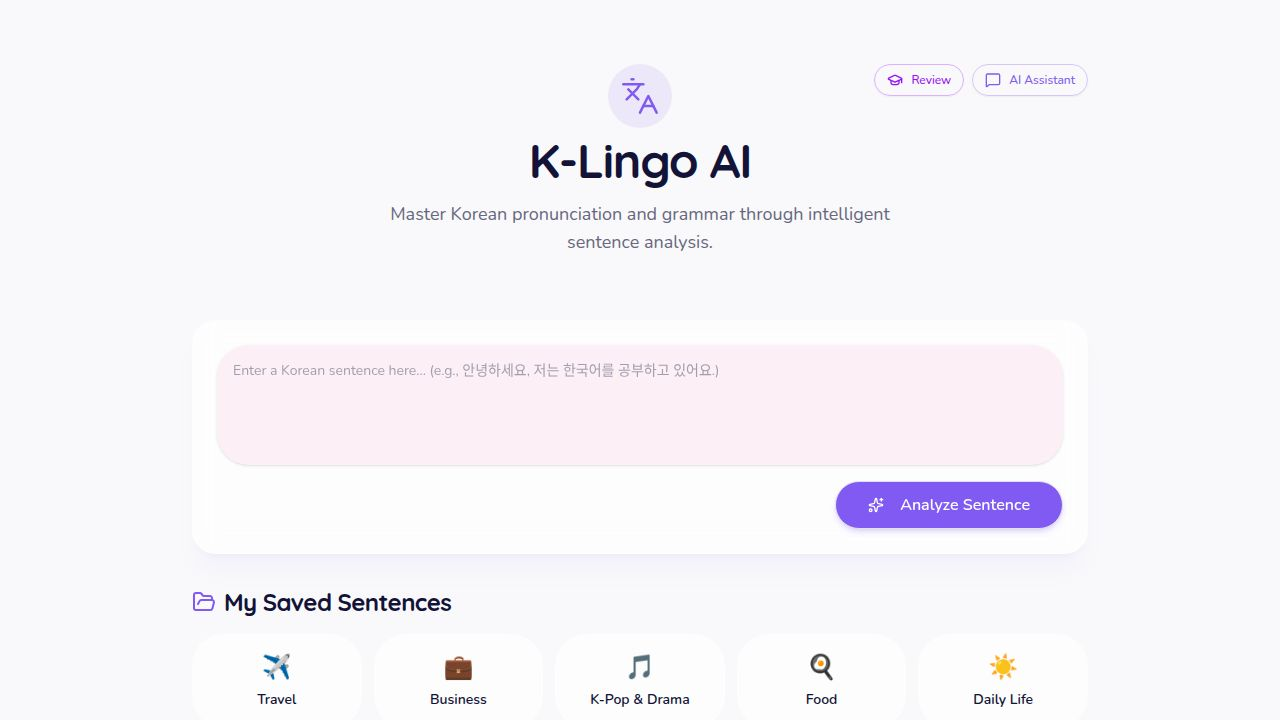
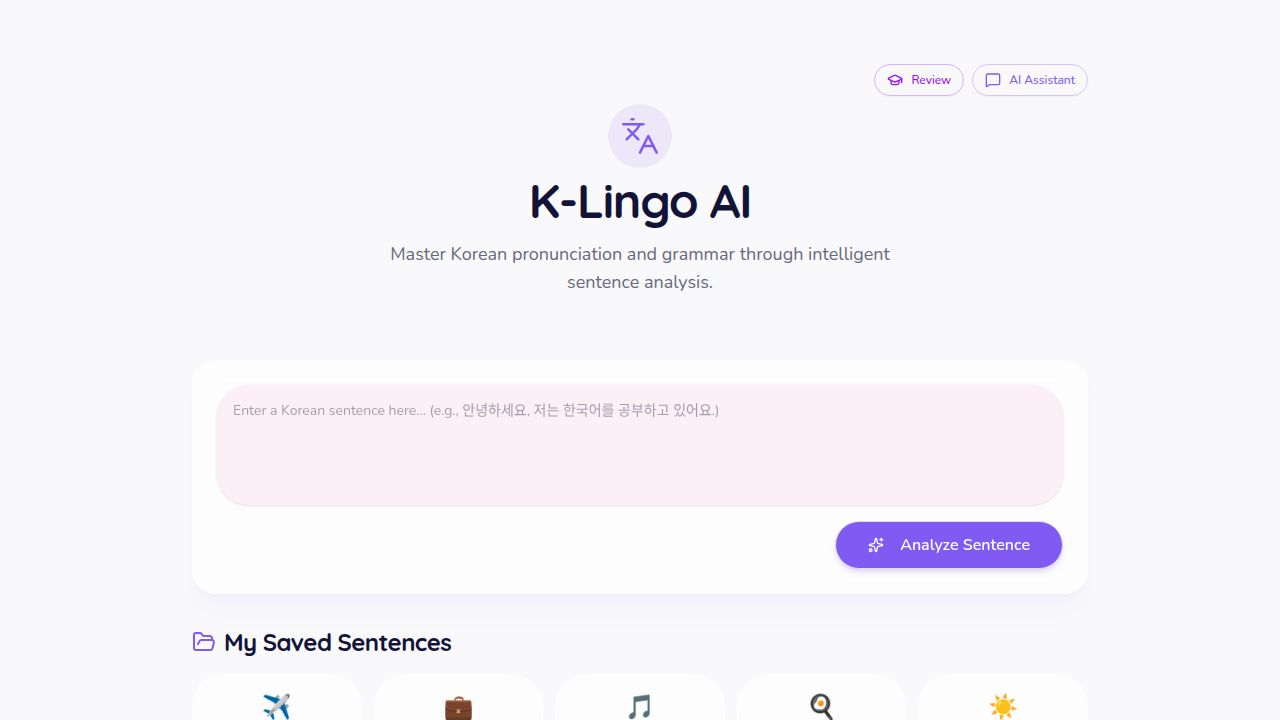
Adjust header layout to prevent button overlap on smaller screens
Fix header layout by repositioning review and AI assistant buttons to prevent overlap with centered content on smaller screens.

Replit-Commit-Author: Agent
Replit-Commit-Session-Id: 50c609b3-1862-4a32-b92d-b6e47786349b
Replit-Commit-Checkpoint-Type: full_checkpoint
Replit-Commit-Event-Id: e1f6886d-391f-4568-8af4-c3ffcffdea6d
Replit-Commit-Screenshot-Url: https://storage.googleapis.com/screenshot-production-us-central1/24cef6f5-fdde-4c06-8137-0bdcbc1f163d/50c609b3-1862-4a32-b92d-b6e47786349b/9YdclIi
Replit-Helium-Checkpoint-Created: true

diff --git a/client/src/pages/Home.tsx b/client/src/pages/Home.tsx
@@ -381,8 +381,8 @@ export default function Home() {
     <div className="min-h-screen bg-background p-4 md:p-8">
       <div className="max-w-4xl mx-auto space-y-8">
 
-        <header className="text-center space-y-4 py-8 relative">
-          <div className="absolute top-8 right-0 flex gap-2">
+        <header className="text-center space-y-4 py-8">
+          <div className="flex justify-end gap-2 mb-2">
             <Link href="/review" data-testid="link-review">
               <Button variant="outline" size="sm" className="gap-2 rounded-xl border-purple-300 text-purple-600 hover:bg-purple-50">
                 <GraduationCap size={15} />
